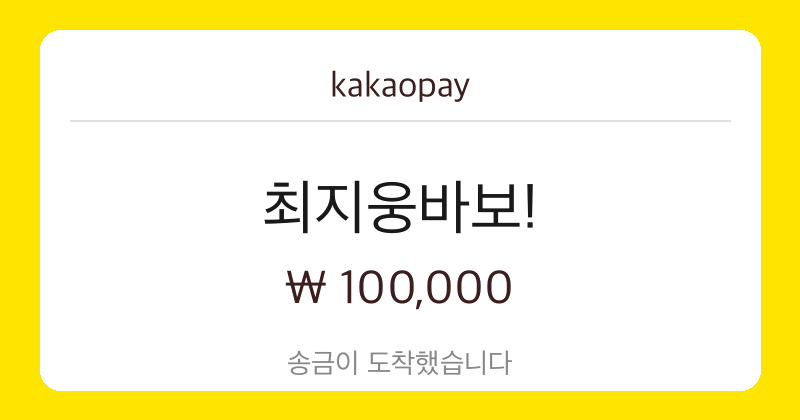
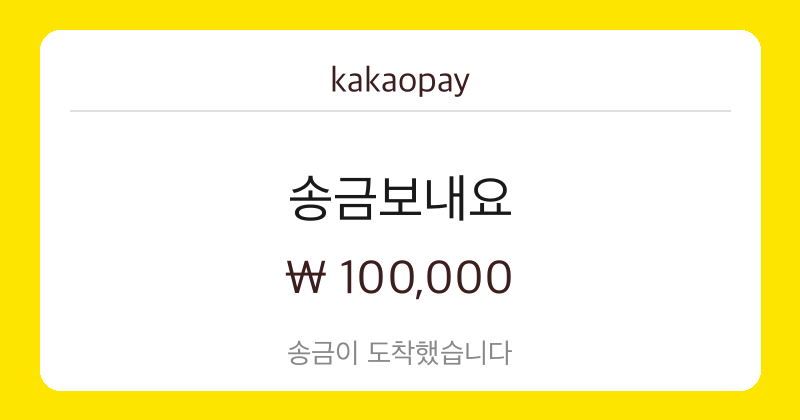
OG 이미지를 송금보내요로 변경, 페이지 본문은 최지웅바보! 유지
카톡 미리보기: 송금보내요 + 카카오페이 스타일 이미지
실제 페이지: 최지웅바보!

diff --git a/index.html b/index.html
@@ -6,7 +6,7 @@
     <title>송금이 도착했습니다</title>
 
     <!-- 카카오톡 미리보기용 Open Graph 태그 -->
-    <meta property="og:title" content="최지웅바보!">
+    <meta property="og:title" content="송금보내요">
     <meta property="og:description" content="₩100,000 송금이 도착했습니다">
     <meta property="og:image" content="https://dgsung.github.io/kakaoprank/og-image.png">
     <meta property="og:image:width" content="800">
@@ -16,7 +16,7 @@
 
     <!-- 트위터 카드 -->
     <meta name="twitter:card" content="summary_large_image">
-    <meta name="twitter:title" content="최지웅바보!">
+    <meta name="twitter:title" content="송금보내요">
     <meta name="twitter:description" content="₩100,000 송금이 도착했습니다">
     <meta name="twitter:image" content="https://dgsung.github.io/kakaoprank/og-image.png">
 
